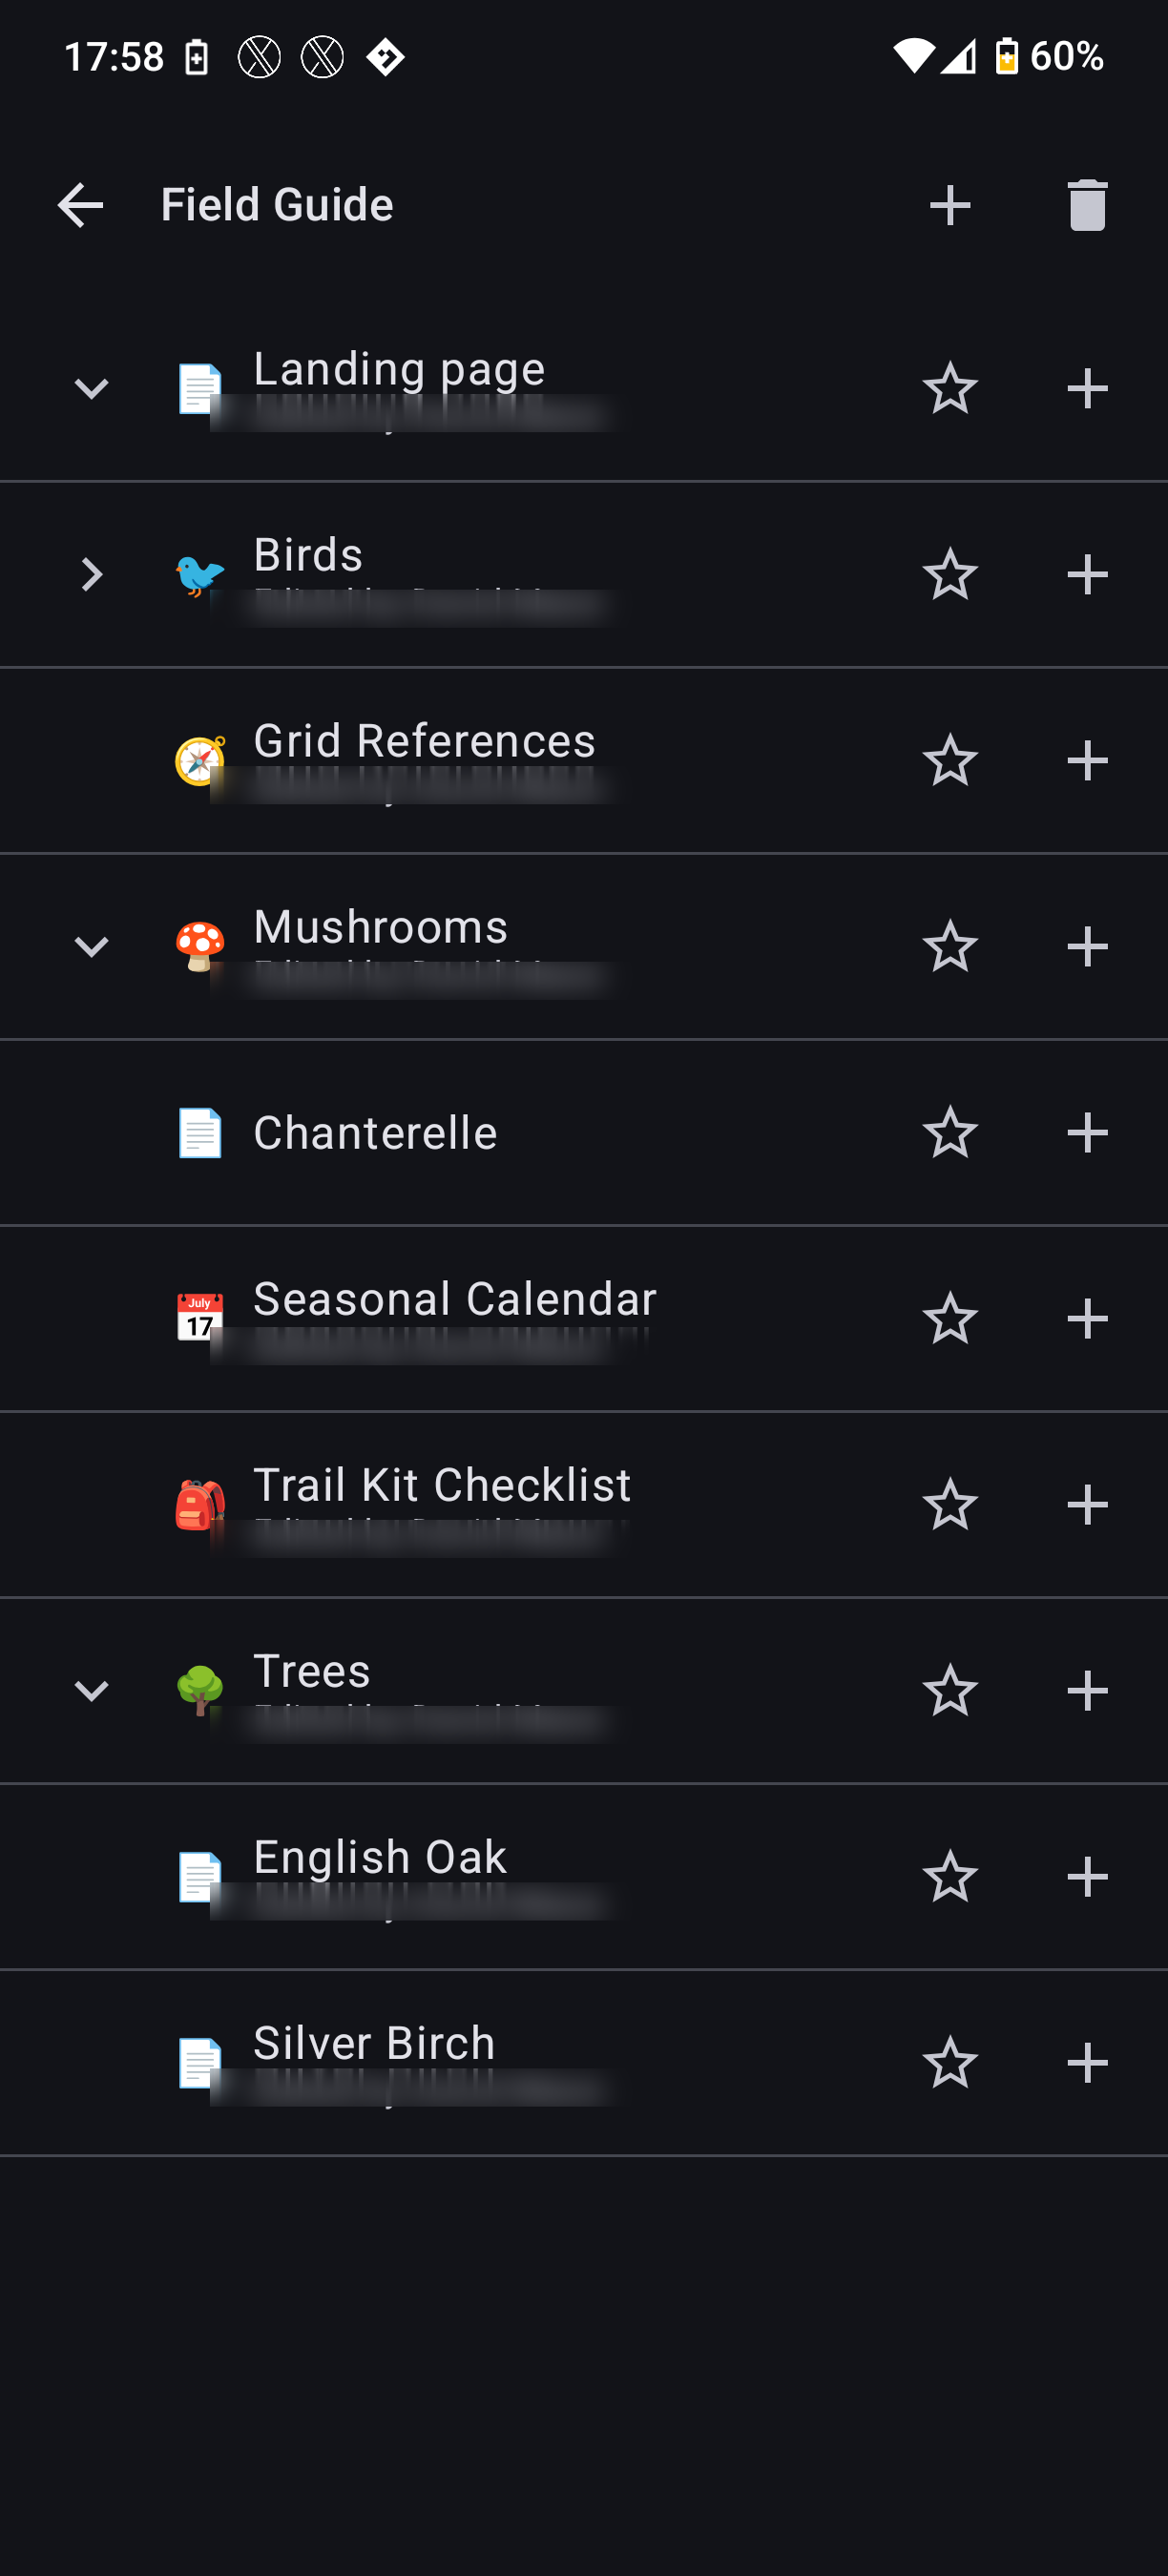
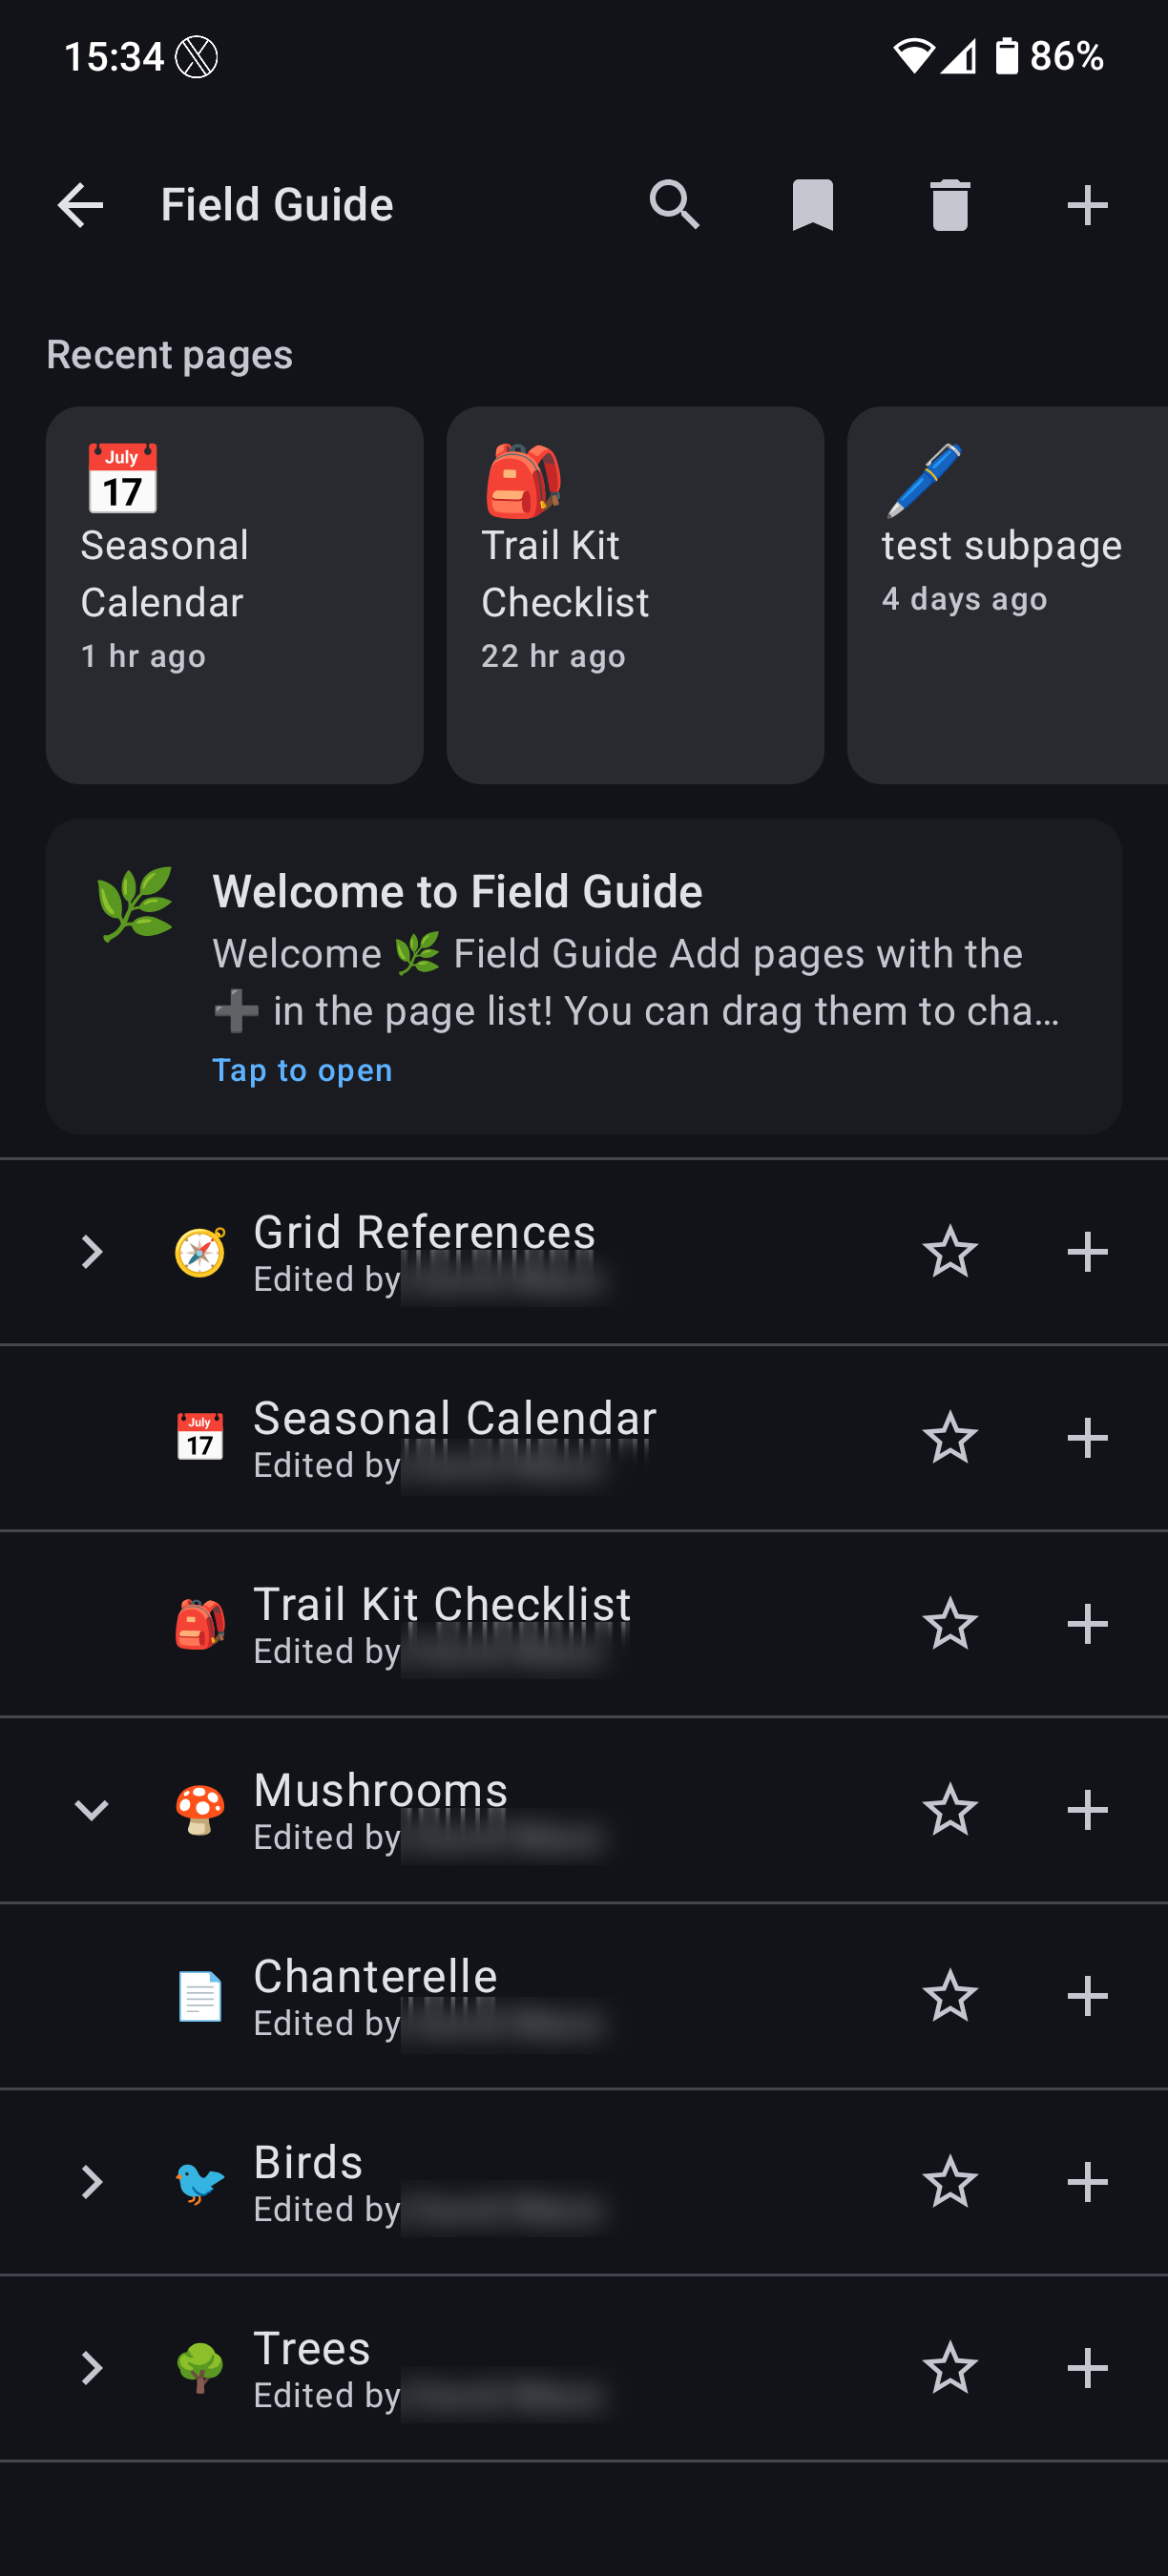
README: refresh screenshots with current build + redact author name
Replaces the v1.x screenshots with six new captures from v2.3.7 to
show off the surface area that's been added since (drag-handle
removal, the recent-pages cards, the collaborative WebView editor,
the per-page actions overflow). README image block goes from a 3+2
grid to a 3+3.

New mapping:
- 01-collective-list.png — Collectives list with trash + new + settings
- 02-field-guide-tree.png — page tree with recents and welcome card
- 03-seasonal-calendar.png — page view, markdown table, tag chip
- 04-collaborative-edit.png — Nextcloud Text WebView editor
- 05-edit-mode.png — native markdown editor with formatting toolbar
- 06-grid-references.png — page view with per-page actions menu open

Author name ("David Mace") is Gaussian-blurred out of the three
screenshots where it appeared in "Edited by …" / "Last changed by …"
subtitle lines (02, 03, 06). The "Edited by" / "Last changed by"
prefix and the timestamp suffix are preserved so the redaction reads
cleanly without losing the meta context.

diff --git a/README.md b/README.md
@@ -9,13 +9,14 @@ An unofficial native Android client for the [Nextcloud Collectives](https://gith
 ## Screenshots
 
 <p align="center">
-  <img src="docs/screenshots/01-collective-list.png" alt="Collectives list with search, favourites, and settings actions" width="260" />
-  <img src="docs/screenshots/02-field-guide-tree.png" alt="Page tree inside a collective with favourite + new-subpage actions per row" width="260" />
-  <img src="docs/screenshots/03-seasonal-calendar.png" alt="Page view rendering a markdown table" width="260" />
+  <img src="docs/screenshots/01-collective-list.png" alt="Collectives list with search, favourites, trash, new-collective and settings actions" width="260" />
+  <img src="docs/screenshots/02-field-guide-tree.png" alt="Page tree inside a collective with recent-pages cards, the landing-page card, favourite + new-subpage actions per row, and the long-press drag affordance" width="260" />
+  <img src="docs/screenshots/03-seasonal-calendar.png" alt="Page view rendering a markdown table with seasonal-guide tag chip" width="260" />
 </p>
 <p align="center">
-  <img src="docs/screenshots/04-edit-mode.png" alt="Raw markdown editor with formatting toolbar" width="260" />
-  <img src="docs/screenshots/05-grid-references.png" alt="Page view rendering a fenced code block and bullet list" width="260" />
+  <img src="docs/screenshots/04-collaborative-edit.png" alt="Collaborative WebView editor backed by Nextcloud Text, with the upstream formatting toolbar pinned to the bottom" width="260" />
+  <img src="docs/screenshots/05-edit-mode.png" alt="Native markdown editor with formatting toolbar over a task-list page" width="260" />
+  <img src="docs/screenshots/06-grid-references.png" alt="Page view with the per-page actions overflow menu open (Attachments, Set emoji, Tags, Rename, Move, Duplicate, Move to trash)" width="260" />
 </p>
 
 ## Features